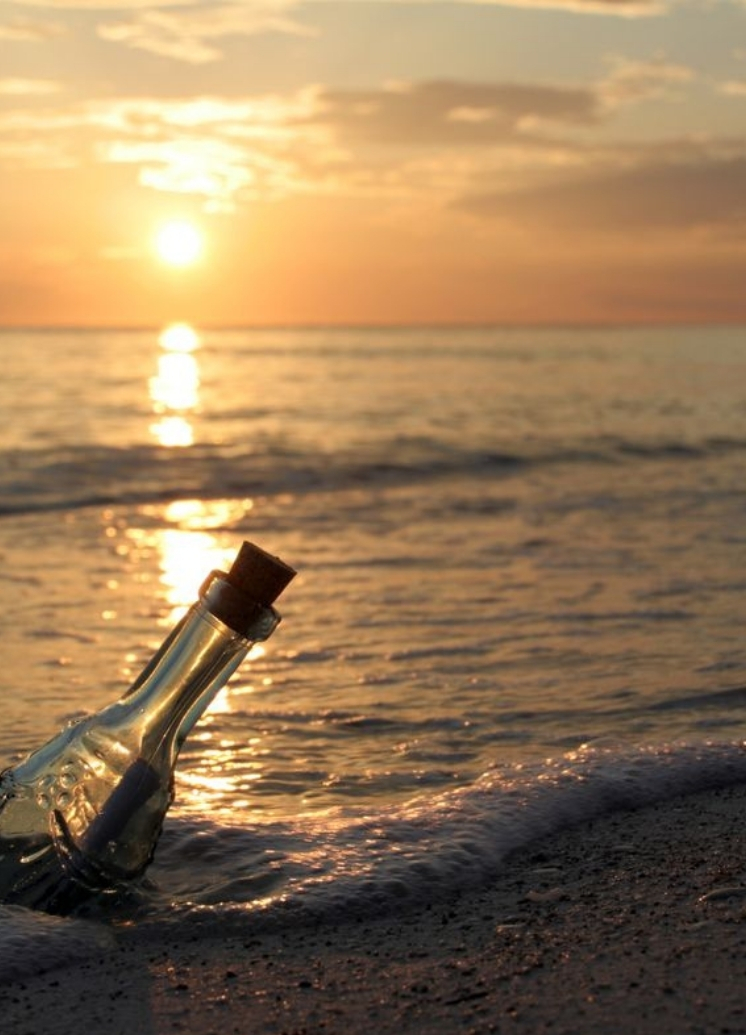
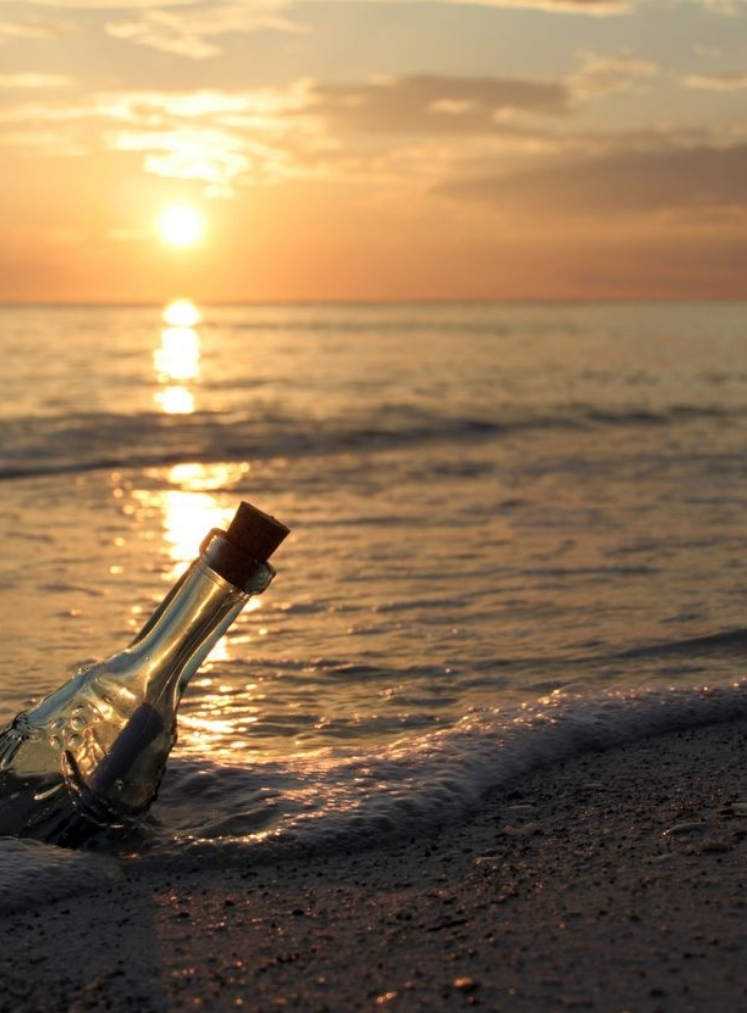
small fixes

diff --git a/MessageInABottle/Content/Site.css b/MessageInABottle/Content/Site.css
@@ -41,7 +41,7 @@ textarea.form-control {
         min-height: 100%; 
         background-position: center; 
         background-repeat: no-repeat;
-        background-size: auto;
+        background-size: cover;
     }
 }
 
@@ -52,7 +52,7 @@ textarea.form-control {
         min-height: 100%;
         background-position: center;
         background-repeat: no-repeat;
-        background-size: auto;
+        background-size: cover;
     }
 }
 /*
@@ -123,11 +123,13 @@ textarea.form-control {
 .darklight {
     background-color: #1F2730;
     color: #FCFCFA;
-    padding-right:3px;
-    padding-left:3px;
-    padding-top:2px;
-    padding-bottom:2px;
+    padding-right: 3px;
+    padding-left: 3px;
+    padding-top: 2px;
+    padding-bottom: 2px;
+    border-radius: 3px;
 }
+
 
 .lightdark {
     background-color: #FCFCFA;
@@ -135,6 +137,7 @@ textarea.form-control {
     padding-right: 2px;
     padding-left: 2px;
     border-radius: 4px;
+    line-height:47px;
 }
 
 .content {
@@ -159,8 +162,10 @@ textarea.form-control {
 
 .footertext {
     font-size: 18px;
-    color: #1F2730;
-    font-family:Sumida
+    color: #FCFCFA;
+    background-color: #1F2730;
+    border-radius: 2px;
+    font-family: Sumida
 }
 
 .footertextgeneric {
@@ -216,7 +221,7 @@ textarea.form-control {
 }
 
 .modalmods{
-    margin-top:120px;
+    margin-top:90px;
 }
 
 .modal-body p {
@@ -225,7 +230,7 @@ textarea.form-control {
 
 .modalbckgrnd {
     /*background-color: #FBF9F5; */
-    background-image: url("../Images/parchment.png");
+    background-image: url("../Images/parchment.jpg");
     min-height: 100%;  
     background-position: center; 
     background-repeat: no-repeat; 
@@ -281,10 +286,9 @@ textarea.form-control {
 }
 
 .errormsg {
-    font-weight: bold;
-    color: #1F2730;
-    background-color: #FCFCFA;
-    border-radius:2px;
+    color: #FCFCFA;
+    background-color: #1F2730;
+    border-radius: 2px;
     font-size: 12px;
 }
 .errormsgwrapper {
